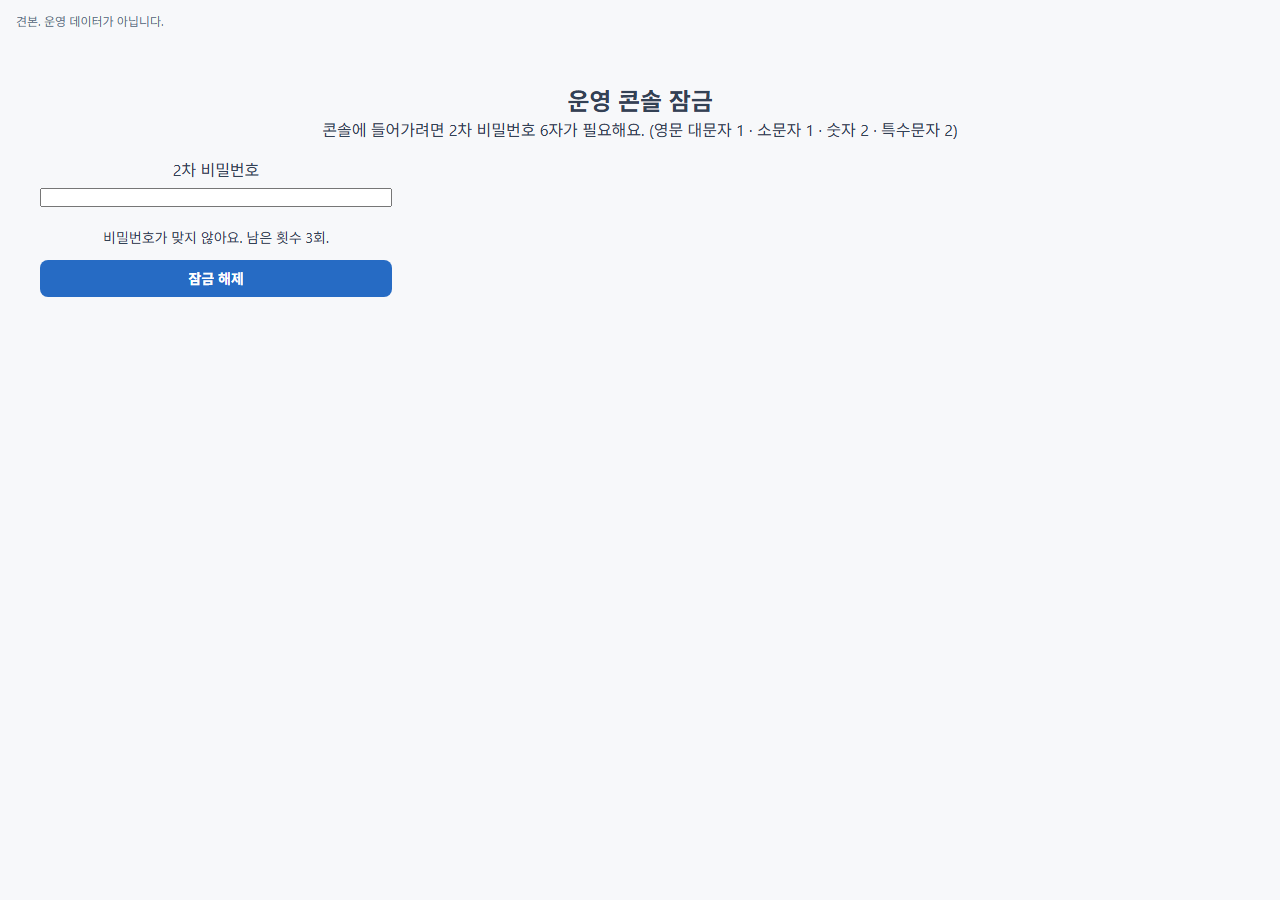
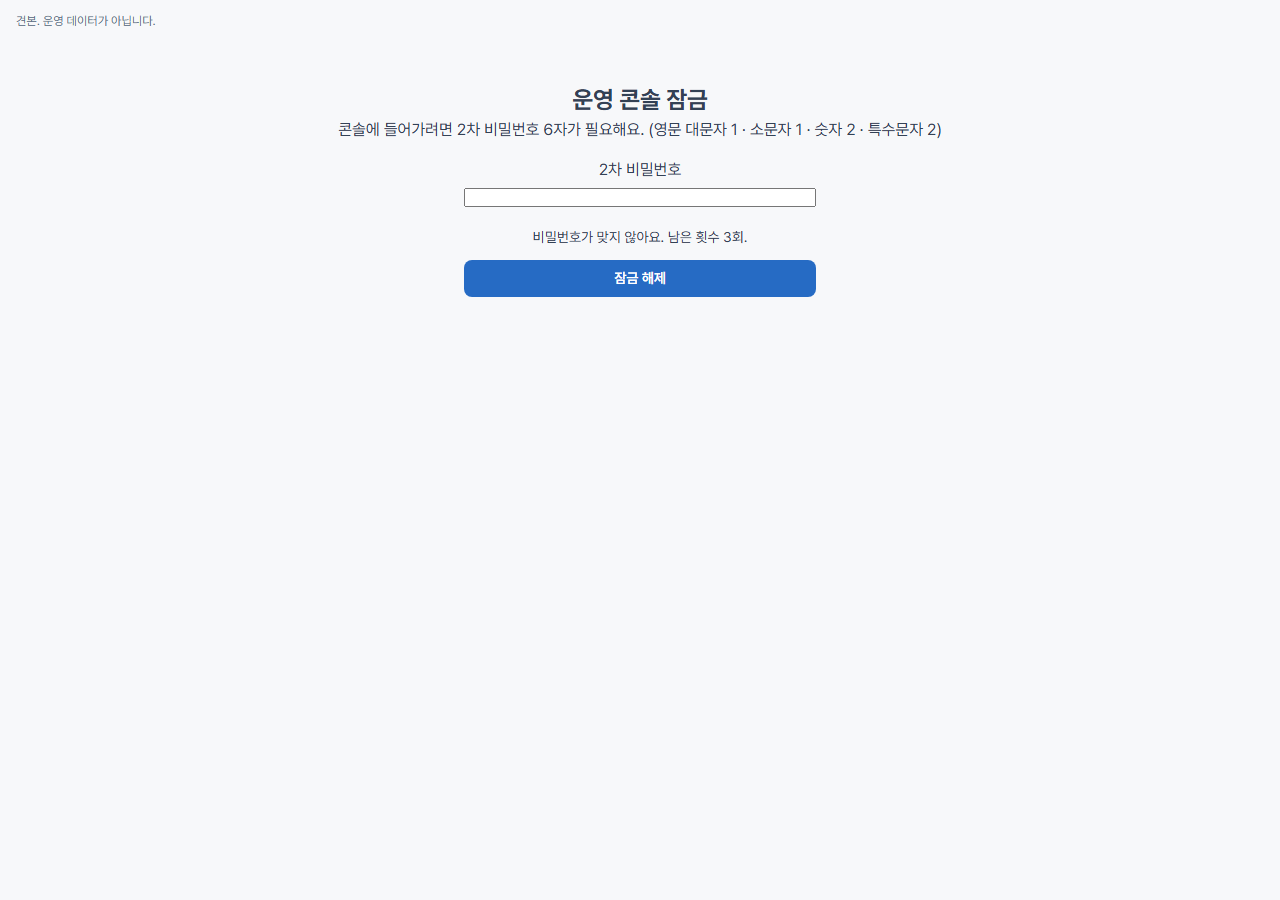
콘솔 잠금이 풀리면 잠금 화면으로 돌아오고, 해시는 DB 없이 만든다.

diff --git a/preview/home-ui/src/support/support-api.js b/preview/home-ui/src/support/support-api.js
@@ -1,3 +1,5 @@
+import { adminFetch, adminHttpStatus } from '../admin/admin-fetch.js';
+
 const JSON_HEADERS = { 'Content-Type': 'application/json' };
 const CREDENTIALS = { credentials: 'include' };
 
@@ -5,7 +7,7 @@ async function readJson(res) {
   const data = await res.json().catch(() => ({}));
   if (!res.ok || !data.ok) {
     const err = new Error(data.message || '요청을 처리하지 못했습니다.');
-    err.status = res.status;
+    err.status = adminHttpStatus(res, data);
     throw err;
   }
   return data;
@@ -17,7 +19,7 @@ export async function fetchNotices() {
 }
 
 export async function saveNotice(input) {
-  const res = await fetch('/api/support/notices.php', {
+  const res = await adminFetch('/api/support/notices.php', {
     method: 'POST',
     headers: JSON_HEADERS,
     ...CREDENTIALS,
@@ -27,7 +29,7 @@ export async function saveNotice(input) {
 }
 
 export async function removeNotice(id) {
-  const res = await fetch(`/api/support/notices.php?id=${encodeURIComponent(id)}`, {
+  const res = await adminFetch(`/api/support/notices.php?id=${encodeURIComponent(id)}`, {
     method: 'DELETE',
     ...CREDENTIALS,
   });
@@ -35,7 +37,7 @@ export async function removeNotice(id) {
 }
 
 export async function resetNoticeSeed() {
-  const res = await fetch('/api/support/notices.php', {
+  const res = await adminFetch('/api/support/notices.php', {
     method: 'PATCH',
     headers: JSON_HEADERS,
     ...CREDENTIALS,
@@ -63,14 +65,13 @@ export async function fetchAdminTickets({ group = 'open', q = '', page = 1 } = {
     page: String(page),
     per_page: '20',
   });
-  const res = await fetch(`/api/support/tickets.php?${params}`, CREDENTIALS);
+  const res = await adminFetch(`/api/support/tickets.php?${params}`);
   return readJson(res);
 }
 
 export async function fetchAdminTicketsByUser(userId) {
-  const res = await fetch(
+  const res = await adminFetch(
     `/api/support/tickets.php?admin=1&user_id=${encodeURIComponent(String(userId))}`,
-    CREDENTIALS,
   );
   return readJson(res);
 }
@@ -86,7 +87,7 @@ export async function submitTicket(input) {
 }
 
 export async function patchTicketStatus(id, status) {
-  const res = await fetch('/api/support/tickets.php', {
+  const res = await adminFetch('/api/support/tickets.php', {
     method: 'PATCH',
     headers: JSON_HEADERS,
     ...CREDENTIALS,
@@ -96,7 +97,7 @@ export async function patchTicketStatus(id, status) {
 }
 
 export async function patchTicketReply(id, adminReplyText) {
-  const res = await fetch('/api/support/tickets.php', {
+  const res = await adminFetch('/api/support/tickets.php', {
     method: 'PATCH',
     headers: JSON_HEADERS,
     ...CREDENTIALS,

diff --git a/preview/home-ui/src/content-config-api.js b/preview/home-ui/src/content-config-api.js
@@ -1,5 +1,6 @@
+import { adminFetch } from './admin/admin-fetch.js';
+
 const JSON_HEADERS = { 'Content-Type': 'application/json' };
-const CREDENTIALS = { credentials: 'include' };
 
 async function readJson(res) {
   const data = await res.json().catch(() => ({}));
@@ -10,32 +11,30 @@ async function readJson(res) {
 }
 
 export async function fetchBoardChannels() {
-  const res = await fetch('/api/admin/content/channels.php', CREDENTIALS);
+  const res = await adminFetch('/api/admin/content/channels.php');
   return readJson(res);
 }
 
 /** @param {Record<string, unknown>} input */
 export async function saveBoardChannelApi(input) {
-  const res = await fetch('/api/admin/content/channels.php', {
+  const res = await adminFetch('/api/admin/content/channels.php', {
     method: 'POST',
     headers: JSON_HEADERS,
-    ...CREDENTIALS,
     body: JSON.stringify(input),
   });
   return readJson(res);
 }
 
 export async function fetchRightRailSlots() {
-  const res = await fetch('/api/admin/content/right-rails.php', CREDENTIALS);
+  const res = await adminFetch('/api/admin/content/right-rails.php');
   return readJson(res);
 }
 
 /** @param {Record<string, unknown>} input */
 export async function saveRightRailSlotApi(input) {
-  const res = await fetch('/api/admin/content/right-rails.php', {
+  const res = await adminFetch('/api/admin/content/right-rails.php', {
     method: 'POST',
     headers: JSON_HEADERS,
-    ...CREDENTIALS,
     body: JSON.stringify(input),
   });
   return readJson(res);

diff --git a/preview/home-ui/src/main.js b/preview/home-ui/src/main.js
@@ -91,6 +91,7 @@ import { activateSupportApi, deactivateSupportApi } from './support/support-back
 import { activateBoardApi, boardKeysBlockedForRole, deactivateBoardApi, hydrateBoardCache, hydrateNoticeCenter, hydrateNoticeHome, resetNoticeCaches, isBoardApiMode, getNoticeHomePosts } from './board/board-backend.js';
 import { resetConcernData } from './concern/store.js';
 import { activateAdminApi, deactivateAdminApi } from './admin/admin-backend.js';
+import { setConsoleUnlockRequiredHandler } from './admin/admin-fetch.js';
 import { activateContentConfigApi, deactivateContentConfigApi } from './content-config-backend.js';
 import { mountOpsChrome } from './site-ops-chrome.js';
 import { mountHomePopup } from './home-popup/mount.js';
@@ -161,6 +162,15 @@ let paintedHash = null;
 let sessionChecked = false;
 /** 빠른 해시 전환 시 늦게 도착한 비동기 그리기를 버린다. */
 let renderGeneration = 0;
+
+setConsoleUnlockRequiredHandler(async () => {
+  await initAuthSession(false);
+  if (isAdminRoute()) {
+    await render();
+    return;
+  }
+  navigate('/admin');
+});
 
 async function render() {
   const generation = ++renderGeneration;

diff --git a/preview/home-ui/src/admin/admin-fetch.js b/preview/home-ui/src/admin/admin-fetch.js
@@ -1,4 +1,21 @@
 /** 닷홈이 4xx JSON을 HTML로 바꾸므로 관리자 API는 soft-error로 받는다. */
+
+/** @type {(() => Promise<void> | void) | null} */
+let onUnlockRequired = null;
+let unlockRefresh = null;
+
+/** 콘솔 잠금이 풀렸을 때 세션을 다시 받고 잠금 화면으로 돌아간다. */
+export function setConsoleUnlockRequiredHandler(handler) {
+  onUnlockRequired = handler;
+}
+
+function noteConsoleUnlockRequired() {
+  if (unlockRefresh || typeof onUnlockRequired !== 'function') return;
+  unlockRefresh = Promise.resolve(onUnlockRequired()).finally(() => {
+    unlockRefresh = null;
+  });
+}
+
 export function adminFetch(url, options = {}) {
   const headers = {
     'X-Study114-Soft-Error': '1',
@@ -8,6 +25,12 @@ export function adminFetch(url, options = {}) {
     credentials: 'include',
     ...options,
     headers,
+  }).then(async (res) => {
+    const data = await res.clone().json().catch(() => null);
+    if (data && data.ok === false && data.error === 'console_unlock_required') {
+      noteConsoleUnlockRequired();
+    }
+    return res;
   });
 }
 

diff --git a/preview/home-ui/src/home-popup/gate.js b/preview/home-ui/src/home-popup/gate.js
@@ -3,6 +3,7 @@
  * 손님·일반 회원에게는 열지 않는다. site-settings 스키마는 건드리지 않는다.
  */
 import { isAdminUser } from '../auth-session.js';
+import { adminFetch } from '../admin/admin-fetch.js';
 import { getCurrentScreen } from '../state.js';
 import { pickHomePopup, pickHomePopups, seoulToday } from './engine.js';
 
@@ -90,9 +91,7 @@ function loadPreviewRow(id) {
   if (previewPromise && previewForId === id) return previewPromise;
   previewForId = id;
   previewRow = null;
-  previewPromise = fetch(`/api/admin/home-popups.php?id=${encodeURIComponent(id)}`, {
-    credentials: 'include',
-  })
+  previewPromise = adminFetch(`/api/admin/home-popups.php?id=${encodeURIComponent(id)}`)
     .then((res) => (res.ok ? res.json() : null))
     .then((data) => {
       previewRow = data && data.ok === true && data.popup ? data.popup : false;

diff --git a/preview/home-ui/src/styles/home-admin.css b/preview/home-ui/src/styles/home-admin.css
@@ -1052,8 +1052,9 @@
   display: flex;
   flex-direction: column;
   gap: 0.75rem;
+  width: 100%;
   max-width: 22rem;
-  margin-top: 1rem;
+  margin: 1rem auto 0;
 }
 
 .admin-console-unlock-form label {

diff --git a/scripts/admin-console-password-hash.php b/scripts/admin-console-password-hash.php
@@ -1,0 +1,87 @@
+<?php
+
+declare(strict_types=1);
+
+/**
+ * DB 없이 콘솔 2차 비밀번호 해시만 만든다.
+ * 비밀번호는 숨긴 입력 두 번이고, 표준 출력은 해시 한 줄이다.
+ * php scripts/admin-console-password-hash.php
+ */
+
+if (PHP_SAPI !== 'cli') {
+    fwrite(STDERR, "CLI에서만 실행합니다.\n");
+    exit(1);
+}
+
+foreach (array_slice($argv, 1) as $arg) {
+    if (preg_match('/password|passwd|secret/i', $arg) === 1) {
+        fwrite(STDERR, "비밀번호는 인자로 받지 않습니다.\n");
+        exit(1);
+    }
+}
+
+require_once dirname(__DIR__) . '/src/Admin/AdminConsolePolicy.php';
+
+use Study114\Admin\AdminConsolePolicy;
+
+function hash_stdin_is_console(): bool
+{
+    if (DIRECTORY_SEPARATOR === '\\') {
+        $stat = fstat(STDIN);
+        $type = is_array($stat) ? ($stat['mode'] & 0170000) : 0;
+
+        return $type === 0020000;
+    }
+
+    return function_exists('stream_isatty') && stream_isatty(STDIN);
+}
+
+function hash_read_secret(string $prompt): string
+{
+    fwrite(STDERR, $prompt);
+    if (DIRECTORY_SEPARATOR === '\\' && hash_stdin_is_console()) {
+        $cmd = 'powershell -NoProfile -Command "'
+            . '$s = Read-Host -AsSecureString; '
+            . '$p = [Runtime.InteropServices.Marshal]::SecureStringToBSTR($s); '
+            . '[Runtime.InteropServices.Marshal]::PtrToStringUni($p)"';
+        $line = shell_exec($cmd);
+    } elseif (hash_stdin_is_console()) {
+        shell_exec('stty -echo');
+        $line = fgets(STDIN);
+        shell_exec('stty echo');
+        fwrite(STDERR, PHP_EOL);
+    } else {
+        $line = fgets(STDIN);
+    }
+    if (!is_string($line)) {
+        fwrite(STDERR, "비밀번호를 읽지 못했습니다.\n");
+        exit(1);
+    }
+
+    return rtrim($line, "\r\n");
+}
+
+$first = hash_read_secret('2차 비밀번호: ');
+$second = hash_read_secret('2차 비밀번호 확인: ');
+if (!hash_equals($first, $second)) {
+    $first = '';
+    $second = '';
+    fwrite(STDERR, "확인이 일치하지 않습니다.\n");
+    exit(1);
+}
+if (!AdminConsolePolicy::accepts($first)) {
+    $first = '';
+    $second = '';
+    fwrite(STDERR, "2차 비밀번호는 6자(영문 대문자 1, 소문자 1, 숫자 2, 특수문자 2)여야 해요.\n");
+    exit(1);
+}
+
+$hash = password_hash($first, PASSWORD_DEFAULT);
+$first = '';
+$second = '';
+if (!is_string($hash) || $hash === '') {
+    fwrite(STDERR, "해시를 만들지 못했습니다.\n");
+    exit(1);
+}
+
+fwrite(STDOUT, $hash . PHP_EOL);

diff --git a/scripts/verify-admin-console-password.php b/scripts/verify-admin-console-password.php
@@ -58,6 +58,40 @@ check(str_contains($apiSrc, 'study114_json_error'), 'AdminApi::fail 이 soft-err
 check(str_contains($serviceSrc, 'session_regenerate_id') || str_contains((string) file_get_contents($root . '/public/api/admin/console-unlock.php'), 'AuthSession::regenerate()'), '잠금해제 성공 시 세션 재발급');
 check(!is_file($root . '/public/api/admin/console-setup.php'), '웹 최초 설정 경로 없음');
 
+function runHashScript(string $rootDir, string $first, string $second): array
+{
+    $proc = proc_open(
+        [PHP_BINARY, $rootDir . '/scripts/admin-console-password-hash.php'],
+        [0 => ['pipe', 'r'], 1 => ['pipe', 'w'], 2 => ['pipe', 'w']],
+        $pipes,
+        $rootDir
+    );
+    if (!is_resource($proc)) {
+        return [1, '', 'spawn'];
+    }
+    fwrite($pipes[0], $first . "\r\n" . $second . "\r\n");
+    fclose($pipes[0]);
+    $out = stream_get_contents($pipes[1]);
+    fclose($pipes[1]);
+    stream_get_contents($pipes[2]);
+    fclose($pipes[2]);
+    $code = proc_close($proc);
+
+    return [$code, is_string($out) ? $out : '', ''];
+}
+
+$hashPassword = makePassword();
+[$hashCode, $hashOut] = runHashScript($root, $hashPassword, $hashPassword);
+$hashLine = trim($hashOut);
+check($hashCode === 0 && substr_count(trim($hashOut), "\n") === 0 && password_verify($hashPassword, $hashLine), '해시 스크립트 결과가 password_verify를 통과');
+[$badCode, $badOut] = runHashScript($root, 'abc', 'abc');
+check($badCode !== 0 && !str_contains($badOut, '$2'), '형식이 아니면 해시를 출력하지 않음');
+[$mismatchCode, $mismatchOut] = runHashScript($root, $hashPassword, makePassword());
+check($mismatchCode !== 0 && !str_contains($mismatchOut, '$2'), '확인이 다르면 해시를 출력하지 않음');
+$hashPassword = '';
+$hashLine = '';
+$hashOut = '';
+
 function makePassword(): string
 {
     $specials = \Study114\Admin\AdminConsolePolicy::SPECIAL_CHARS;

diff --git a/docs/worklog/2026/11/2026-11-15-363-admin-console-2nd-password.md b/docs/worklog/2026/11/2026-11-15-363-admin-console-2nd-password.md
@@ -56,7 +56,7 @@
 
 로컬 Docker MySQL에만 일회용 DB `study114_b1test` 를 만들고 끝에서 삭제했다. 운영 DB는 쓰지 않았다.
 
-`php scripts/verify-admin-console-password.php` → **31 PASS / 0 FAIL**.
+`php scripts/verify-admin-console-password.php` → **34 PASS / 0 FAIL**. 해시 스크립트는 `password_verify`를 통과하고, 형식이 아니거나 확인이 다르면 해시를 내지 않는다.
 
 포함: 형태 거절, 헤더 있으면 200 `console_unlock_required` `http_status` 403, 헤더 없으면 403, 해제, 세션 쿠키 값 변경(값은 기록하지 않음), 해제 후 members 200, 유휴 30분, 회원 403, 비로그인 401, 5회 잠금, 잠금 중 맞는 비밀번호 거절, 만료 후 재시도, 로그아웃, 미설정, 변경 성공·기존 비밀번호 불일치, 감사 로그 5종, 로그에 비밀번호·해시 없음.
 
@@ -68,6 +68,14 @@
 - `docs/worklog/2026/11/shots-363/locked-1280.png`
 - `docs/worklog/2026/11/shots-363/fail-390.png`
 - `docs/worklog/2026/11/shots-363/fail-1280.png`
+
+## 보완 (같은 PR)
+
+- `scripts/admin-console-password-hash.php` 는 DB 없이 숨긴 입력 두 번으로 해시 한 줄만 낸다. 운영 문서 32의 해시 절차를 이 스크립트와 Docker 명령으로 바꿨다.
+- 092 주석은 저장소와 grok-sync 사본 모두 「머지 전」이다.
+- 관리자 API가 `console_unlock_required` 이면 세션을 다시 받고 콘솔 잠금 화면을 연다.
+- 콘텐츠 설정, 고객센터 관리자 요청, 홈 팝업 미리보기에 soft-error 헤더를 붙였다.
+- 잠금해제 입력칸은 제목과 같이 가운데다.
 
 ## 최종 검수 묶음
 

diff --git a/docs/internal/32-admin-console-password-ops.md b/docs/internal/32-admin-console-password-ops.md
@@ -13,20 +13,26 @@
 
 ## 해시 만들기
 
-명령 줄에 비밀번호를 붙이지 않는다. 로컬 PHP에서 표준 입력으로만 넣는다.
+명령 줄에 비밀번호를 붙이지 않는다. 화면에는 보이지 않는 입력 두 번이고, 표준 출력은 해시 한 줄뿐이다. 그 줄만 복사하고 입력한 비밀번호는 남기지 않는다.
 
 ```
-php -r "fwrite(STDOUT, password_hash(stream_get_contents(STDIN), PASSWORD_DEFAULT));"
+php scripts/admin-console-password-hash.php
 ```
 
-비밀번호를 입력한 뒤 Windows는 Ctrl+Z 후 Enter, macOS·Linux는 Ctrl+D 로 입력을 끝낸다. 화면에 나온 한 줄이 해시다. 그 문자열만 복사하고, 입력한 비밀번호는 남기지 않는다.
+PHP가 없는 PC는 저장소 루트에서 Docker로 같은 스크립트를 실행한다.
+
+```
+docker run --rm -it -v "${PWD}:/app" -w /app php:8.3-cli php scripts/admin-console-password-hash.php
+```
 
 조합은 정확히 6자다. 영문 대문자 1, 소문자 1, 숫자 2, 특수문자 2. 특수문자는 `!@#$%^&*?` 만 된다.
 
-같은 머신에 이 저장소가 있으면 CLI도 된다. 비밀번호는 화면에 보이지 않는 입력 두 번이다.
+## 관리자 계정 확인
 
-```
-php scripts/admin-console-password-set.php --email <본인 이메일>
+해시를 넣을 계정을 먼저 확인한다.
+
+```sql
+SELECT id, email, admin_level, role_type FROM users WHERE admin_level IS NOT NULL OR role_type='admin';
 ```
 
 ## 등록 SQL
